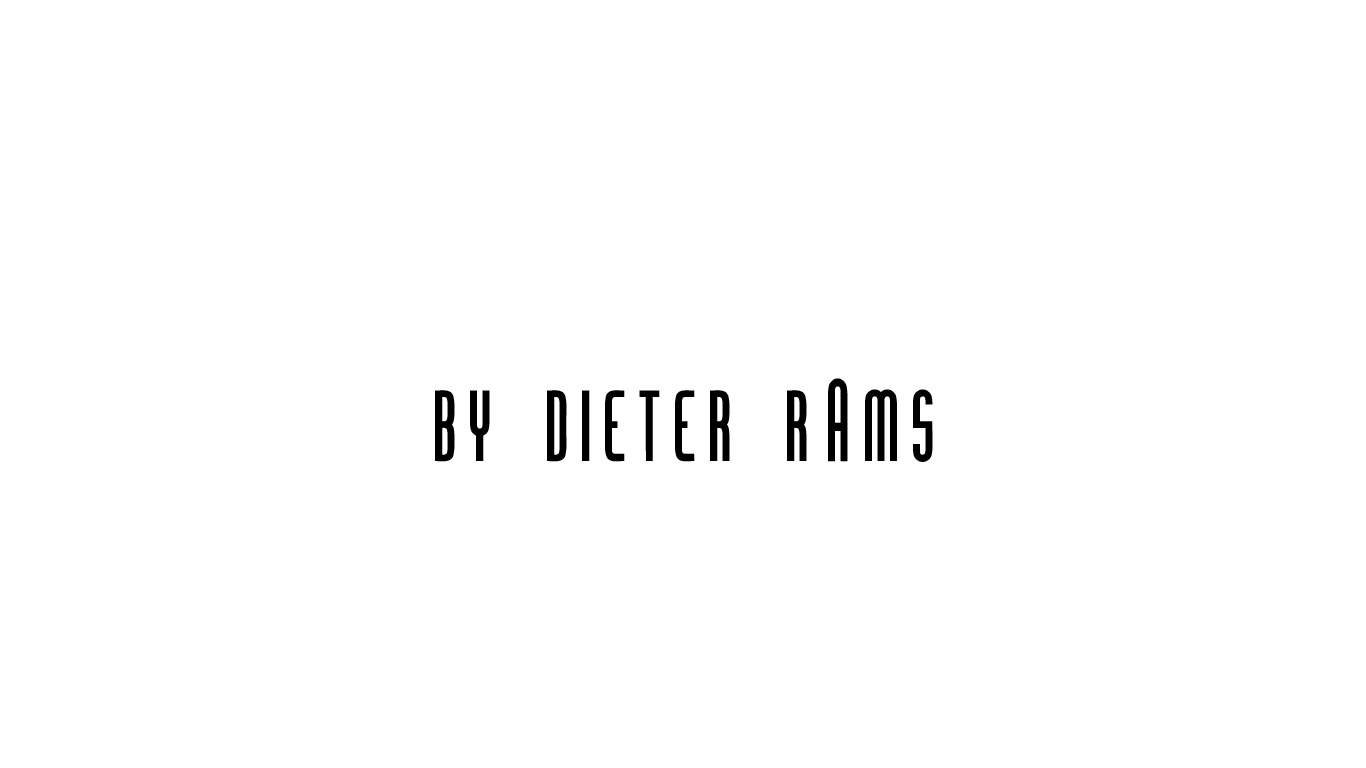
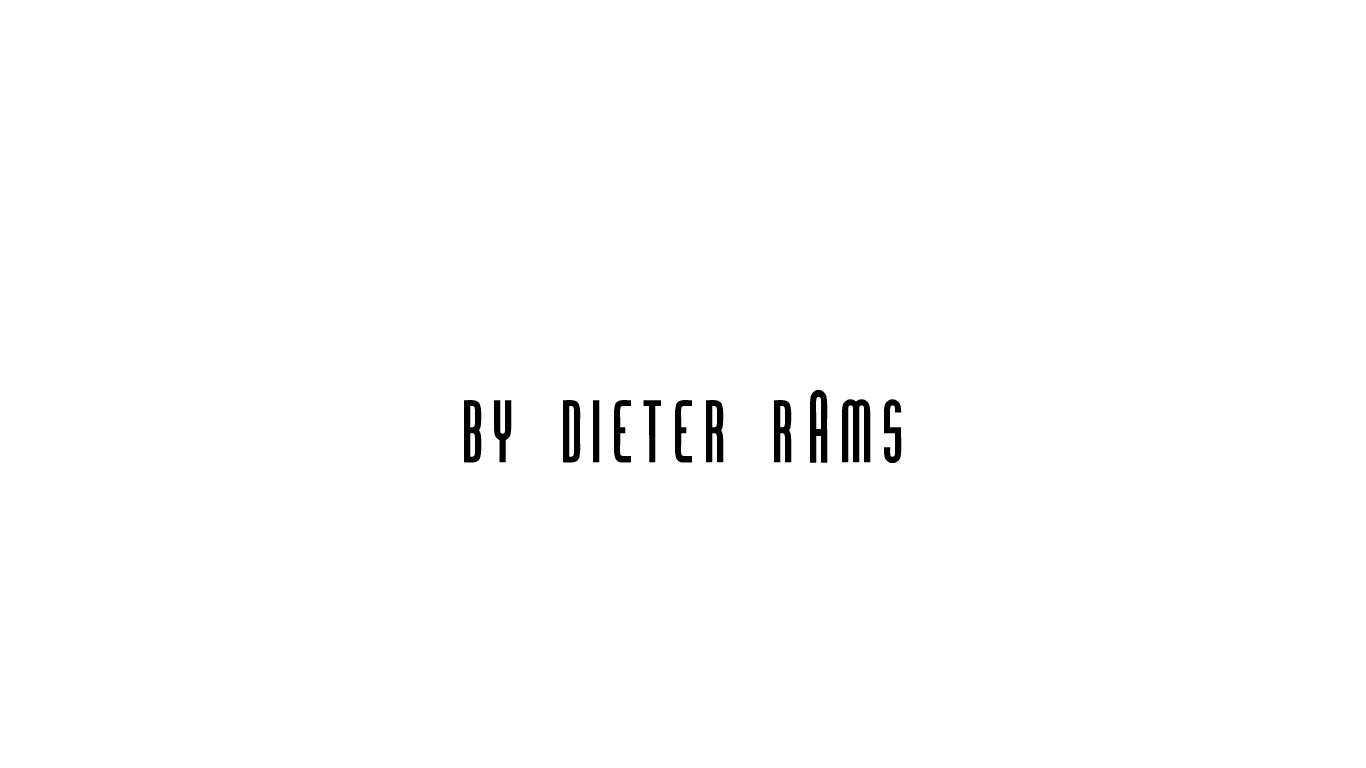
added links

Changed region(s): [[0.3075, 0.5, 0.7072, 0.625]]

diff --git a/index.html b/index.html
@@ -9,13 +9,15 @@
    <link href='http://fonts.googleapis.com/css?family=Hind:300,700' rel='stylesheet' type='text/css'>
    <style>
 h1 {
-   margin-top: 200px;
+   margin-top: 185px;
    color: #212121;
    font-weight: thin;
    font-family: 'Montserrat', sans-serif;
-   font-size: 2.5rem;
+   display: inline-block;
+   float: left;
+   font-size: 2.75rem;
    text-align: center;
-   padding-left: 10px;
+   padding-left: 355px;
 }
 
 .quote {
@@ -37,17 +39,17 @@ h1 {
             <ul>
                <li><a href="#">PRINCIPLES</a>
                   <ul>
-                     <li><a href="#">HOME</a></li>
-                     <li><a href="#">INNOVATIVE</a></li>
-                     <li><a href="#">USEFUL</a></li>
-                     <li><a href="#">AESTHETIC</a></li>
-                     <li><a href="#">UNDERSTANDABLE</a></li>
-                     <li><a href="#">UNOBTRUSIVE</a></li>
-                     <li><a href="#">HONEST</a></li>
-                     <li><a href="#">LONG-LASTING</a></li>
-                     <li><a href="#">THOROUGH</a></li>
-                     <li><a href="#">ENVIRONMENTAL</a></li>
-                     <li><a href="#">LESS DESIGN</a></li>
+                     <li><a href="./index.html#">HOME</a></li>
+                     <li><a href="./innovative.html#">INNOVATIVE</a></li>
+                     <li><a href="./useful.html#">USEFUL</a></li>
+                     <li><a href="./aesthetic.html#">AESTHETIC</a></li>
+                     <li><a href="./understandable.html#">UNDERSTANDABLE</a></li>
+                     <li><a href="./unobtrusive.html#">UNOBTRUSIVE</a></li>
+                     <li><a href="./honest.html#">HONEST</a></li>
+                     <li><a href="./long-lasting.html#">LONG-LASTING</a></li>
+                     <li><a href="./thorough.html#">THOROUGH</a></li>
+                     <li><a href="./environmental.html#">ENVIRONMENTAL</a></li>
+                     <li><a href="./lessdesign.html#">LESS DESIGN</a></li>
                   </ul>
                </li>
 

diff --git a/css/main.css b/css/main.css
@@ -4,7 +4,7 @@ html {background: url("../img/DR.png") no-repeat center center fixed;
 }
 nav {
   margin: 0 auto;
-  padding-left: 30px;
+  padding-left: 5px;
 }
 nav a {
   color: #212121;
